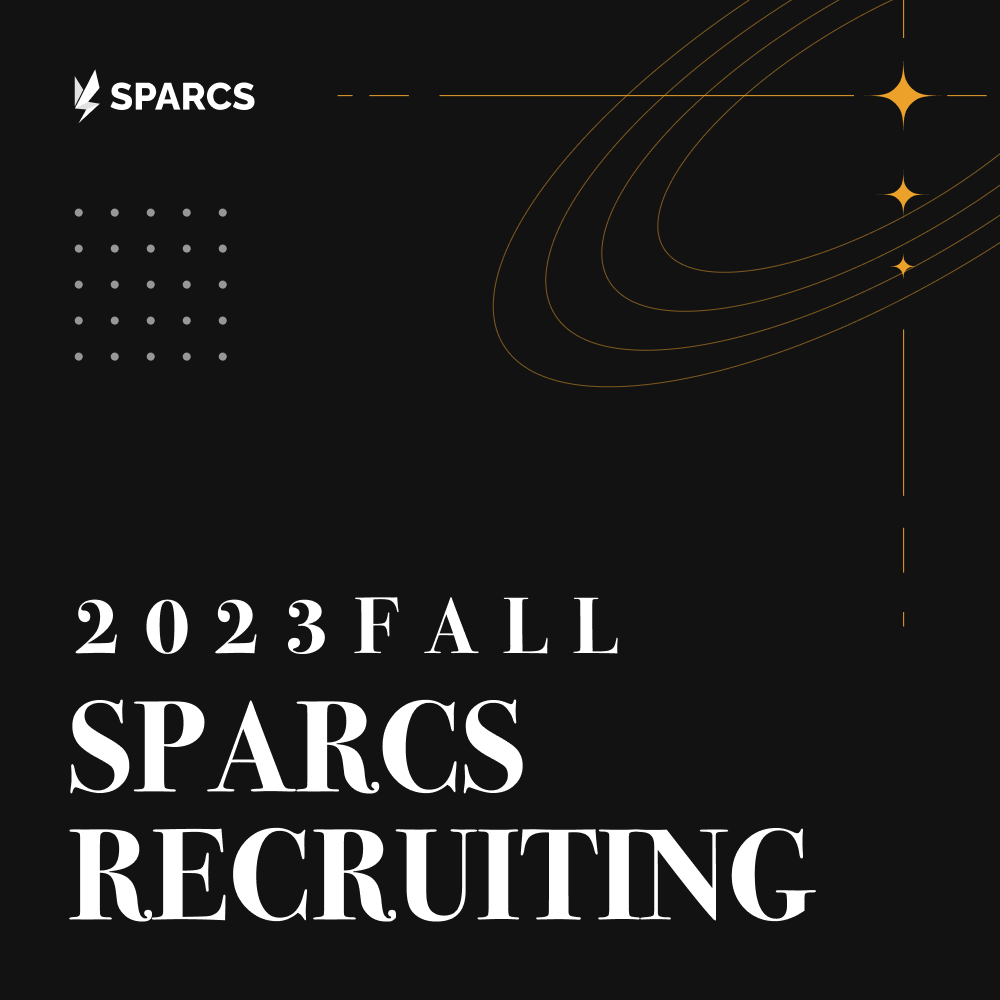
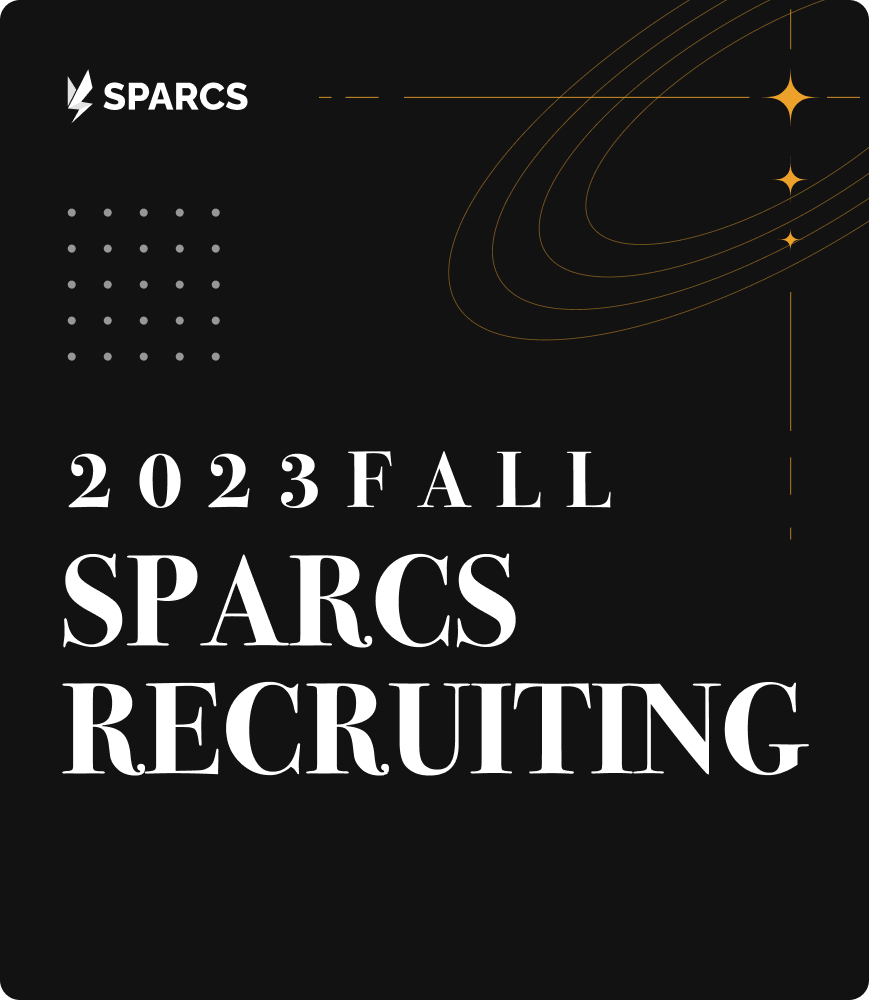
feat: modify design of recruiting popup

diff --git a/lib/widgets/pop_up.dart b/lib/widgets/pop_up.dart
@@ -74,38 +74,47 @@ class _PopUpState extends State<PopUp> {
 
 Widget _build23fRecruiting() {
   return SingleChildScrollView(
-    child: Column(
-      children: [
-        Text.rich(
-          TextSpan(
-            style: titleBold,
-            children: <TextSpan>[TextSpan(text: 'SPARCS 가을학기 리크루팅')],
+    child: Container(
+      child: Stack(
+        alignment: AlignmentDirectional.center,
+        children: [
+          Image.asset(
+            'assets/popups/23f-recruiting.png',
+            height: 328.0,
+            width: 285.0,
           ),
-          textAlign: TextAlign.center,
-        ),
-        const SizedBox(height: 16.0),
-        Image.asset('assets/popups/23f-recruiting.png', height: 280.0),
-        const SizedBox(height: 8.0),
-        Text(
-          '웹에서 지금 바로 만나보세요!',
-          style: bodyRegular,
-        ),
-        const SizedBox(height: 8.0),
-        FilledButton(
-          onPressed: () => launchUrl(
-            Uri.https("apply.sparcs.org"),
+          Column(
+            children: [
+              const SizedBox(height: 262.0),
+              FilledButton(
+                style: ButtonStyle(
+                  backgroundColor: MaterialStateProperty.all(Color(0xFFEBA12A)),
+                ),
+                onPressed: () => launchUrl(
+                  Uri.parse(
+                    'https://apply.sparcs.org/',
+                  ),
+                ),
+                child: Row(
+                  mainAxisSize: MainAxisSize.min,
+                  children: [
+                    Text(
+                      '지원하러 가기',
+                      style: evenBodyBold.copyWith(color: Colors.black),
+                      textAlign: TextAlign.center,
+                    ),
+                    const SizedBox(width: 8.0),
+                    Icon(
+                      Icons.arrow_forward,
+                      color: Colors.black,
+                    )
+                  ],
+                ),
+              ),
+            ],
           ),
-          child: Text.rich(
-            TextSpan(
-              style: titleBold,
-              children: <TextSpan>[
-                TextSpan(text: '지금 바로 지원하기'),
-              ],
-            ),
-            textAlign: TextAlign.center,
-          ),
-        ),
-      ],
+        ],
+      ),
     ),
   );
 }

diff --git a/lib/home.dart b/lib/home.dart
@@ -34,7 +34,9 @@ class _OTLHomeState extends State<OTLHome> with SingleTickerProviderStateMixin {
 
     WidgetsBinding.instance.addPostFrameCallback(
       (_) async {
-        if ((await SharedPreferences.getInstance()).getBool('popup') ?? true) {
+        if ((await SharedPreferences.getInstance())
+                .getBool('popup_recruiting_23f') ??
+            true) {
           await OTLNavigator.pushDialog(
             context: context,
             builder: (context) => PopUp(),
